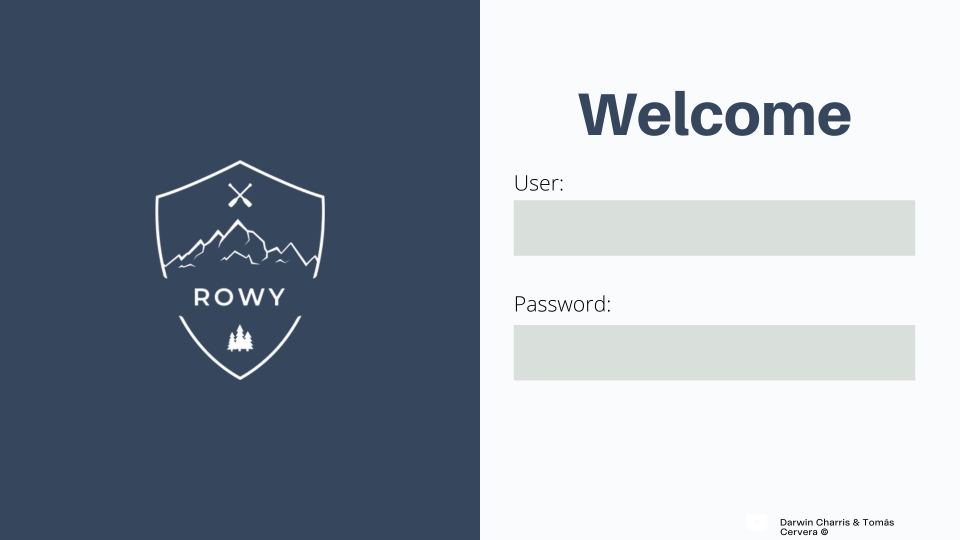
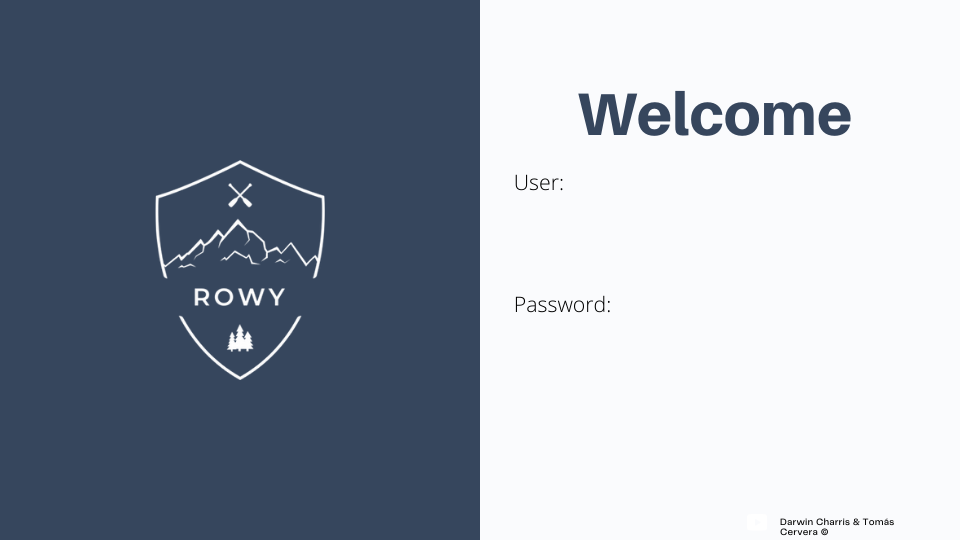
a

Changed region(s): [[0.5312, 0.5333, 0.9688, 0.7111], [0.5312, 0.3259, 0.9688, 0.4741], [0.8125, 0.9481, 0.9375, 0.9778]]

diff --git a/Rowy.py b/Rowy.py
@@ -1,0 +1,291 @@
+
+from ast import Str
+from cgitb import text
+from queue import Empty
+from tkinter import *  # seleccionar lo que necesitamos
+from tkinter.font import Font
+from msilib.schema import Error
+import mysql.connector
+from mysql.connector import Error
+from re import search
+# Conectar a la base de datos
+try:
+    conexion = mysql.connector.connect(
+        host='bpacqw5rvjfk010mockm-mysql.services.clever-cloud.com', user='ufmrybtwgkedeaka', password='q0i5Rasr9nIzRK4HN312', db='bpacqw5rvjfk010mockm'
+    )
+    if conexion.is_connected():  # Borrarlo ahorita
+        print("Conexión exitosa")
+
+except Error as ex:
+    print("Error de conexión", ex)
+
+
+# ventana principal
+app = Tk()
+app.title("Rowy")
+app.geometry("960x540")
+app.resizable(height=False, width=False)
+
+# Fondos
+imagen = PhotoImage(file="1.png")
+imagen2 = PhotoImage(file="2.png")
+botonLogin = PhotoImage(file="boton.png")
+imagen3 = PhotoImage(file="3.png")
+botonBack = PhotoImage(file="back.png")
+botonAdd1 = PhotoImage(file = "AddClient.png")
+btnModi = PhotoImage(file = "Mod.png")
+btnDele = PhotoImage(file="Delete.png")
+imagen2_1 = PhotoImage(file = "2_1.png")
+# Pagína principal
+
+
+def Mainmenu():
+    
+        
+    def agregarClient ():
+        def val2_1 (sname:str, sLname:str, smail:str, spword:str,sid:str):
+            #Metodo que permite validar los campos
+            #creación de 5 claves para poder avanzar
+            keyN=False
+            KeyLN= False
+            KeyM = False
+            KeyP = False
+            KeyI=False
+            #Validación nombre
+            if(sname == ""):
+                ErrorName.config(text="")
+                ErrorName.config(text="Empty Field")
+            else:
+                KeyN = True
+            #Validar Apellido
+            if(sLname == ""):
+                ErrorLName.config(text ="")
+                ErrorLName.config(text="Empty Field")
+            else:
+                KeyLN = True
+            #validar Correo
+            if(smail == ""):
+                ErrorMail.config(text="")
+                ErrorMail.config(text="Empty Field")
+            else:
+                #No permitir que el correo tenga el dominio de la empresa
+                if search("@rowy.com", smail):
+                    ErrorMail.config(text="")
+                    ErrorMail.config(text="Mail not available")
+                #Comprobar si el email está ocupado 
+                else:
+                    cursor = conexion.cursor()
+                    cursor.execute("SELECT mail FROM Clientes WHERE mail='"+smail+"'")
+                    mail = cursor.fetchone()
+                    print(mail)
+                    if(mail != None):
+                        ErrorMail.config(text="")
+                        ErrorMail.config(text="Mail not available")
+                    else:
+                        KeyM = True
+                        print("correo listooo")
+            #Validar Contrasela
+            if(spword == ""):
+                ErrorPword.config(text="")
+                ErrorPword.config(text="Empty Field")
+            else:
+                KeyP = True
+            #Validar Cedula
+            if(sid == ""):
+                ErrorID.config(text="")
+                ErrorID.config(text="Empty Field")
+            else:
+                #Validar si está en la base de datos
+                cursor = conexion.cursor()
+                cursor.execute("SELECT cedula FROM Clientes WHERE cedula="+sid)#Ver si esto funciona pq ced es numero
+                ced = cursor.fetchone()
+                if(ced != None):
+                    ErrorID.config(text="")
+                    ErrorID.config(text="The client already exists")
+                else:
+                    KeyI =True
+                #condicion todas las llaves son correctas lance la pagina de los datos secundarios 
+            
+
+                
+        #Agregar el fondo
+        for ele in app.winfo_children():
+            ele.destroy()
+        interfaz = Canvas(app)
+        interfaz.pack()
+        background2_1 = Label(interfaz, image=imagen2_1)
+        background2_1.pack()
+        #botones del panel lateral
+        botonMod = Button(image= btnModi)
+        botonMod.place(x=23, y=267, height=53, width=168)
+        botonMod.configure(borderwidth=0)
+        botonDelete = Button(image= btnDele)
+        botonDelete.place(x=22, y=355, height=53, width=176)
+        botonDelete.configure(borderwidth=0)
+        #Campos de texto
+        txtname = Entry(app, bg="grey89")
+        txtname.place(x=245, y=220, width=275, height=55)
+        txtLname = Entry(app, bg="grey89")
+        txtLname.place(x=557, y=220, width=275, height=55)
+        txtEmail = Entry(app, bg="grey89")
+        txtEmail.place(x=245, y=339, width=275, height=55)
+        txtPword = Entry(app, bg="grey89")
+        txtPword.place(x=557, y=339, width=275, height=55)
+        txtID = Entry(app, bg="grey89")
+        txtID.place(x=245, y=447, width=275, height=55)
+        #Obtener la info de los campos de texto
+        sname = txtname.get()
+        sLname = txtLname.get()
+        smail = txtEmail.get()
+        spword = txtPword.get()
+        sid = txtID.get()
+        #Campos de texto para errores
+        ErrorName = Label(app, text="", font=20, fg="#E41111", bg="#FAFBFD")
+        ErrorName.place(x=245, y=276)
+        ErrorLName = Label(app, text="", font=20, fg="#E41111", bg="#FAFBFD")
+        ErrorLName.place(x=557, y=276)
+        ErrorMail = Label(app, text="", font=20, fg="#E41111", bg="#FAFBFD")
+        ErrorMail.place(x=245, y=400)
+        ErrorPword = Label(app, text="", font=20, fg="#E41111", bg="#FAFBFD")
+        ErrorPword.place(x=557, y=400)
+        ErrorID = Label(app, text="", font=20, fg="#E41111", bg="#FAFBFD")
+        ErrorID.place(x=245, y=505)
+    
+    # Lanzar la ventana Admin
+    def Admin():
+        for ele in app.winfo_children():
+            ele.destroy()
+        interfaz = Canvas(app)
+        interfaz.pack()
+        background2 = Label(interfaz, image=imagen2)
+        background2.pack()
+        botonBack1 = Button(text="Back", image=botonBack, command=Mainmenu)
+        botonBack1.place(x=46, y=450, height=50, width=105)
+        botonBack1.configure(height=2,
+                             width=12)
+        botonAdd = Button(image= botonAdd1, command=agregarClient)
+        botonAdd.place(x=20, y=191, height=54, width=181)
+        botonAdd.configure(borderwidth=0)
+        botonMod = Button(image= btnModi)
+        botonMod.place(x=23, y=267, height=53, width=168)
+        botonMod.configure(borderwidth=0)
+        botonDelete = Button(image= btnDele)
+        botonDelete.place(x=22, y=355, height=53, width=176)
+        botonDelete.configure(borderwidth=0)
+
+    def Client():
+        for ele in app.winfo_children():
+            ele.destroy()
+        interfaz = Canvas(app)
+        interfaz.pack()
+        background3 = Label(interfaz, image=imagen3)
+        background3.pack()
+        botonBack2 = Button(text="Back", image=botonBack, command=Mainmenu)
+        botonBack2.place(x=813, y=420, height=50, width=105)
+    
+
+    def validarAdmin(c1: Str, c2: Str):
+        # Conseguir el email en la base de datos
+        cursor = conexion.cursor()
+        cursor.execute("SELECT mail FROM Admin WHERE mail='"+c1+"'")
+        mail = cursor.fetchone()
+        print(mail)  # Borrar despues
+        # validar si está, si no es none, significa que está
+        if(mail != None):
+            print("hurra")
+            # Comporbar si la contraseña está bien
+            cursor.execute(
+                "SELECT password FROM Admin WHERE mail='"+c1+"' AND password='"+c2+"'")
+            passw = cursor.fetchone()
+            print(passw)
+            # validar si la contraseña es correcta
+
+            if(passw != None):
+                print("Contraseña correcta")
+                # Lanzar Admin page
+                Admin()
+            else:
+                print("COntraseña incorrecta")
+                Error.config(text="")
+                Error.config(text="Invalid password")
+        else:
+            print("email no existe")
+            Error.config(text="")
+            Error.config(text="Invalid mail")
+    # Validar cliente
+
+    def validarClient(c1: Str, c2: Str):
+        # Conseguir el email en la base de datos
+        cursor = conexion.cursor()
+        cursor.execute("SELECT mail FROM Clientes WHERE mail='"+c1+"'")
+        mail = cursor.fetchone()
+        print(mail)
+        # validar si está, si no es none, significa que está
+        if(mail != None):
+            print("hurra")
+            # Comporbar si la contraseña está bien
+            cursor.execute(
+                "SELECT password FROM Clientes WHERE mail='"+c1+"' AND password='"+c2+"'")
+            passw = cursor.fetchone()
+            print(passw)
+            # validar si la contraseña es correcta
+            contraseña = "('"+c2+"',)"
+            if(passw != None):
+                print("Contraseña correcta")
+                # Lanzar Admin page
+                Client()
+            else:
+                print("COntraseña incorrecta")
+                Error.config(text="")
+                Error.config(text="Invalid password")
+
+        else:
+            print("email no existe")
+            Error.config(text="")
+            Error.config(text="Invalid mail")
+
+    # Comando boton Login
+    def login():
+
+        Error.config(text="")
+        c1 = txt1.get()
+        c2 = txt2.get()
+
+        if(c1 == "" or c2 == ""):  # Campos vacios
+            Error.config(text="Empty fields")
+        else:
+            # Conseguir el email en la base de datos
+            if search("@rowy.com", c1):
+                validarAdmin(c1, c2)
+            else:
+                validarClient(c1, c2)
+
+    # Fondo ventana principal, botones y campos de textos
+    # Fondo
+    background = Label(image=imagen, text="fondo")
+    background.place(x=0, y=0, relwidth=1, relheight=1)
+
+    # Boton login
+    boton = Button(image=botonLogin, command=login)
+    boton.place(x=813, y=420, height=58, width=105)
+
+    boton.configure(height=2,
+                    width=12)
+
+    # Campos de texto
+    txt1 = Entry(app, bg="grey89")
+    txt1.place(x=514, y=200, width=400, height=54)
+    txt2 = Entry(app, bg="grey89", show="*")
+    txt2.place(x=514, y=326, width=400, height=54)
+    #Label de error 
+    Error = Label(app, text="", font=20, fg="#E41111", bg="#FAFBFD")
+    Error.place(x=514, y=400)
+
+
+# Lanzar ventana principal
+Mainmenu()
+app.mainloop()
+# Cerrar la base de datos
+if conexion.is_connected():
+    conexion.close()
+    print("bye")
